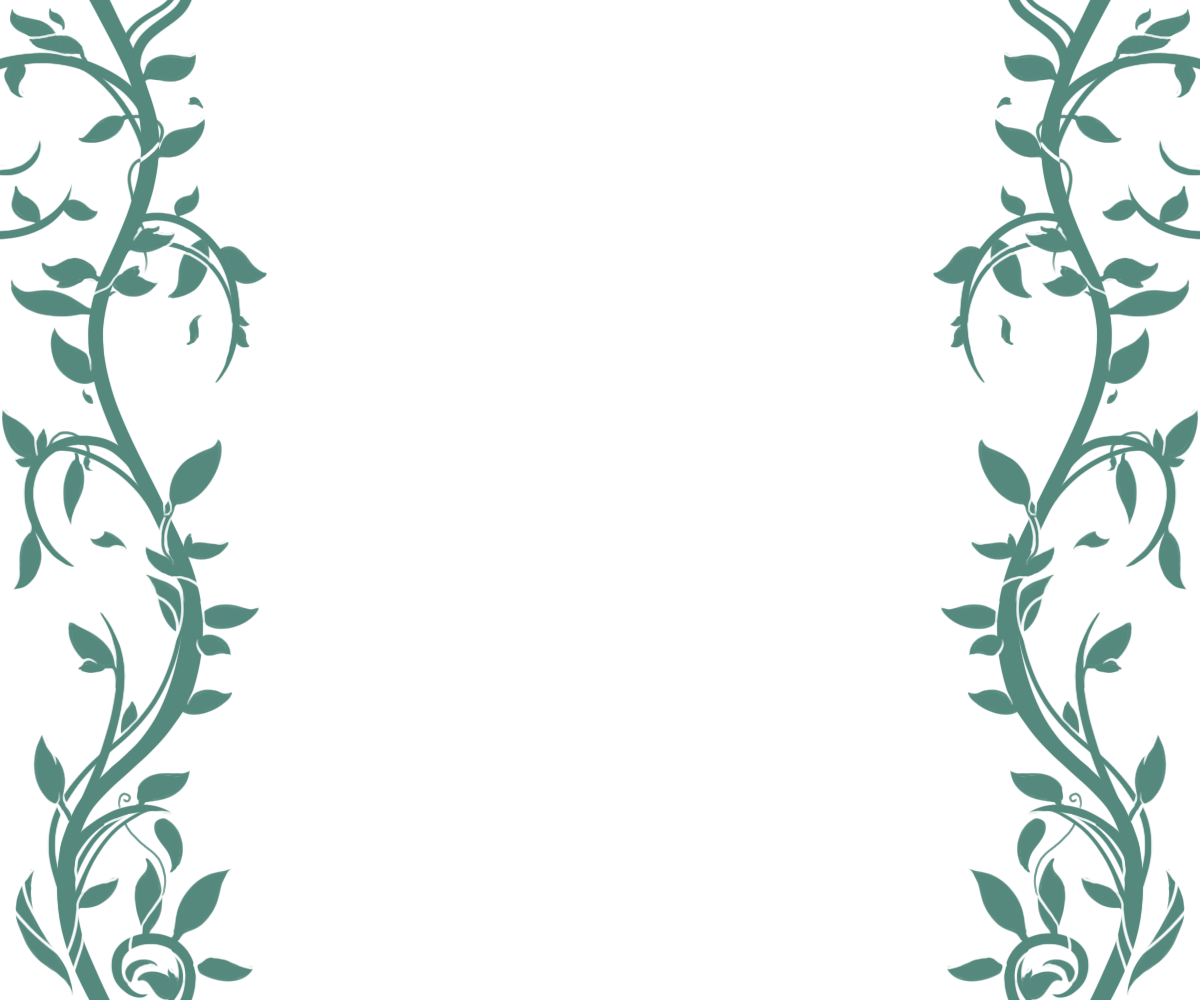
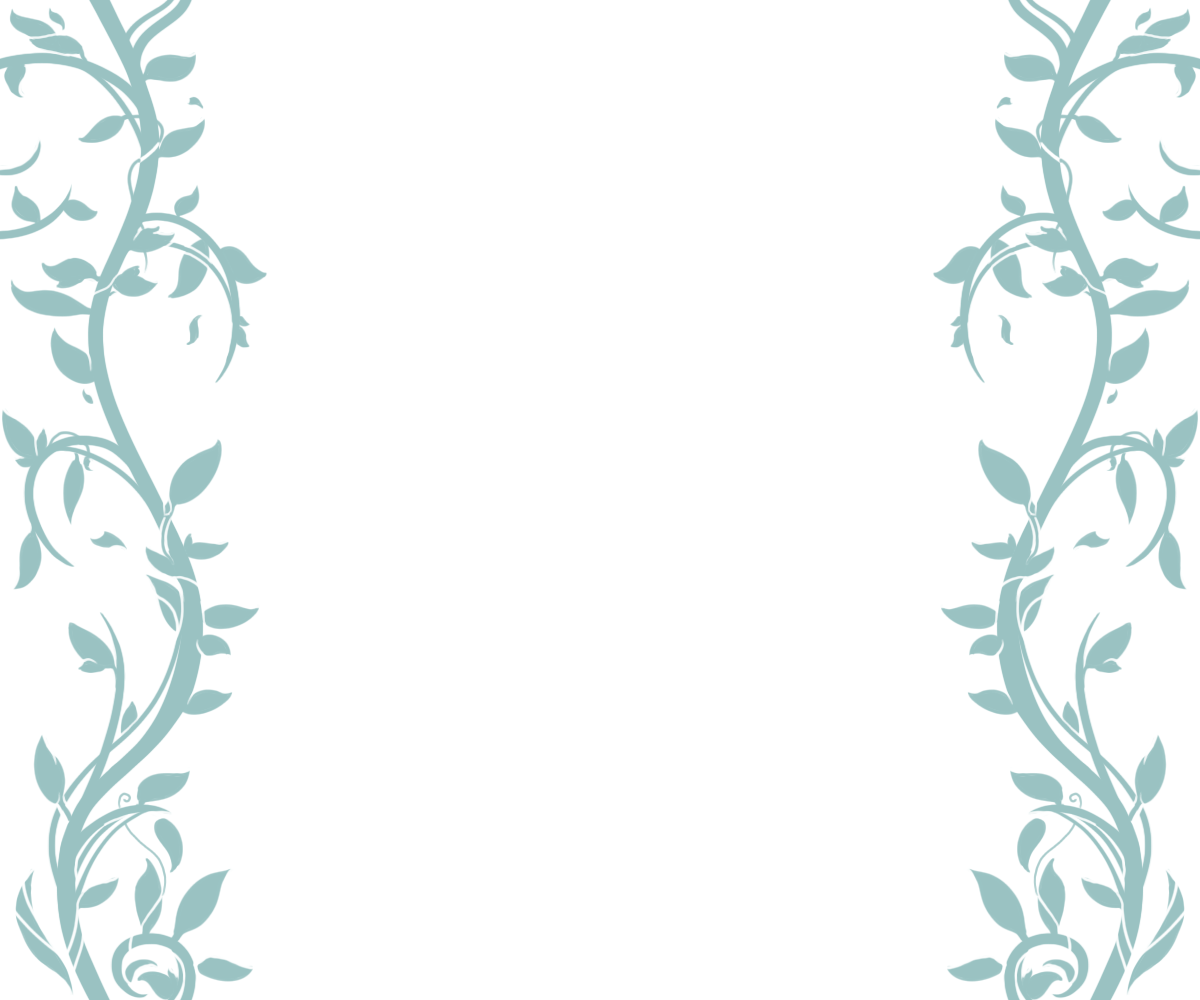
style: style tweak for zenit input chore: lowered opacity on default vine background image fluff: renamed Default theme to Greenly Default

Changed region(s): [[0.7708, 0.0, 1.0, 1.0], [0.0, 0.0, 0.2158, 1.0], [0.925, 0.155, 1.0, 0.248]]

diff --git a/styles/theme.css b/styles/theme.css
@@ -587,30 +587,32 @@ a.inline-roll {
 
 		& .button-style {
 			border: thin solid var(--pfu-color-app-control-border);
-			color: var(--pfu-color-app-control-content);
-			background: var(--pfu-color-app-control-fill);
+			color: var(--pfu-color-app-control-content) !important;
+			background: var(--pfu-color-app-control-fill) !important;
 			box-shadow: 1px 2px var(--pfu-color-app-control-shadow);
 
-			&.active,
-			&.active:hover,
-			&:active,
-			&:active:hover {
-				margin: 1px -1px -1px 1px;
-				-webkit-transform: unset;
-				transform: unset;
-				color: var(--pfu-color-app-control-active-content) !important;
-				border: thin solid var(--pfu-color-app-control-active-border);
-				background: var(--pfu-color-app-control-active-fill) !important;
-				box-shadow: 0 1px var(--pfu-color-app-control-active-shadow);
-				text-shadow: none;
-			}
-
-			&:not(.active, :active):hover {
-				text-shadow: none;
-				color: var(--pfu-color-app-control-highlight-content) !important;
-				border: thin solid var(--pfu-color-app-control-highlight-border);
-				background: var(--pfu-color-app-control-highlight-fill) !important;
-				box-shadow: 1px 2px var(--pfu-color-app-control-highlight-shadow);
+			&:not(:has(input)) {
+				&.active,
+				&.active:hover,
+				&:active,
+				&:active:hover {
+					margin: 1px -1px -1px 1px;
+					-webkit-transform: unset;
+					transform: unset;
+					color: var(--pfu-color-app-control-active-content) !important;
+					border: thin solid var(--pfu-color-app-control-active-border);
+					background: var(--pfu-color-app-control-active-fill) !important;
+					box-shadow: 0 1px var(--pfu-color-app-control-active-shadow);
+					text-shadow: none;
+				}
+	
+				&:not(.active, :active):hover {
+					text-shadow: none;
+					color: var(--pfu-color-app-control-highlight-content) !important;
+					border: thin solid var(--pfu-color-app-control-highlight-border);
+					background: var(--pfu-color-app-control-highlight-fill) !important;
+					box-shadow: 1px 2px var(--pfu-color-app-control-highlight-shadow);
+				}
 			}
 		}
 		& #autoTargetForm, #autoSpendForm {
